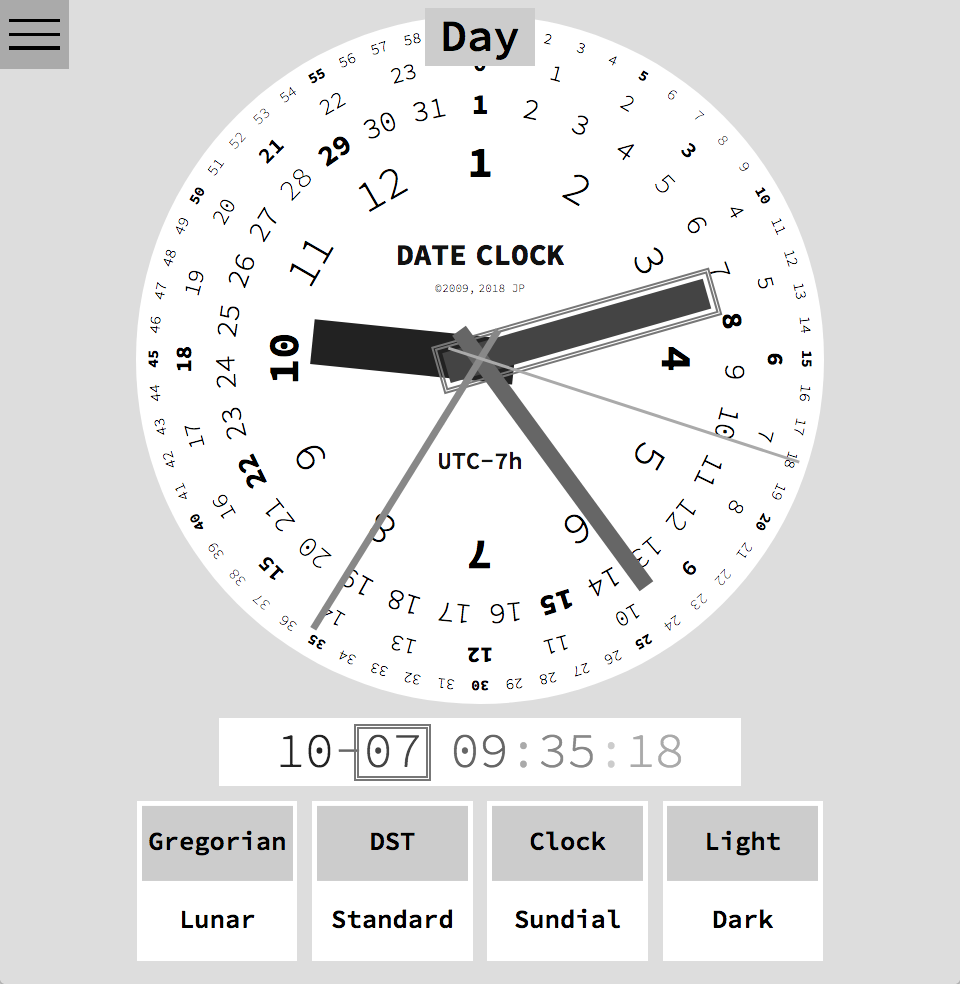
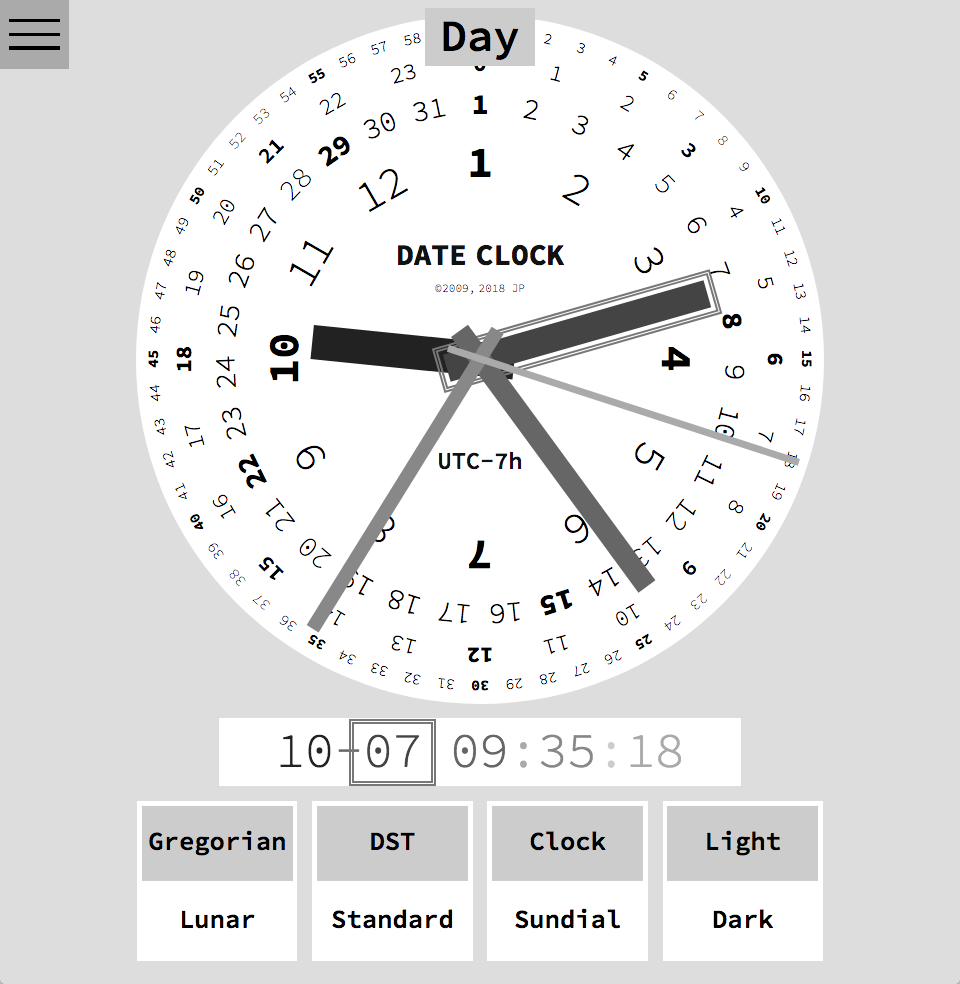
Adjust width of hands.

diff --git a/dateclock.css b/dateclock.css
@@ -428,11 +428,11 @@ input {
 .hand-month {
     background-color: #ddd;
     height: 29.5%; /* 55% - top */
-    left: 46.75%; /* 50% - width / 2 */
+    left: 47.5%; /* 50% - width / 2 */
     top: 25.5%;
     transform: rotate(0);
     transform-origin: 50% 83.1%; /* 50% eyeball% */
-    width: 6.5%;
+    width: 5%;
 }
 #toggle-theme:checked ~ .display-analog > .hand-month {
     background-color: #222;
@@ -440,11 +440,11 @@ input {
 .hand-day {
     background-color: #bbb;
     height: 39.4%;
-    left: 47.75%;
+    left: 48%;
     top: 15.6%;
     transform: rotate(0);
     transform-origin: 50% 87.2%;
-    width: 4.5%;
+    width: 4%;
 }
 #toggle-theme:checked ~ .display-analog > .hand-day {
     background-color: #444;
@@ -452,11 +452,11 @@ input {
 .hand-hour {
     background-color: #999;
     height: 46%;
-    left: 48.75%;
+    left: 48.5%;
     top: 9%;
     transform: rotate(0);
     transform-origin: 50% 89%;
-    width: 2.5%;
+    width: 3%;
 }
 #toggle-theme:checked ~ .display-analog > .hand-hour {
     background-color: #666;
@@ -464,11 +464,11 @@ input {
 .hand-minute {
     background-color: #777;
     height: 51%;
-    left: 49.5%;
+    left: 49%;
     top: 4%;
     transform: rotate(0);
     transform-origin: 50% 90.3%;
-    width: 1%;
+    width: 2%;
 }
 #toggle-theme:checked ~ .display-analog > .hand-minute {
     background-color: #888;
@@ -476,11 +476,11 @@ input {
 .hand-second {
     background-color: #555;
     height: 53.6%;
-    left: 49.875%;
+    left: 49.5%;
     top: 1.4%;
     transform: rotate(0);
     transform-origin: 50% 90.7%;
-    width: 0.5%;
+    width: 1%;
 }
 #toggle-theme:checked ~ .display-analog > .hand-second {
     background-color: #aaa;
